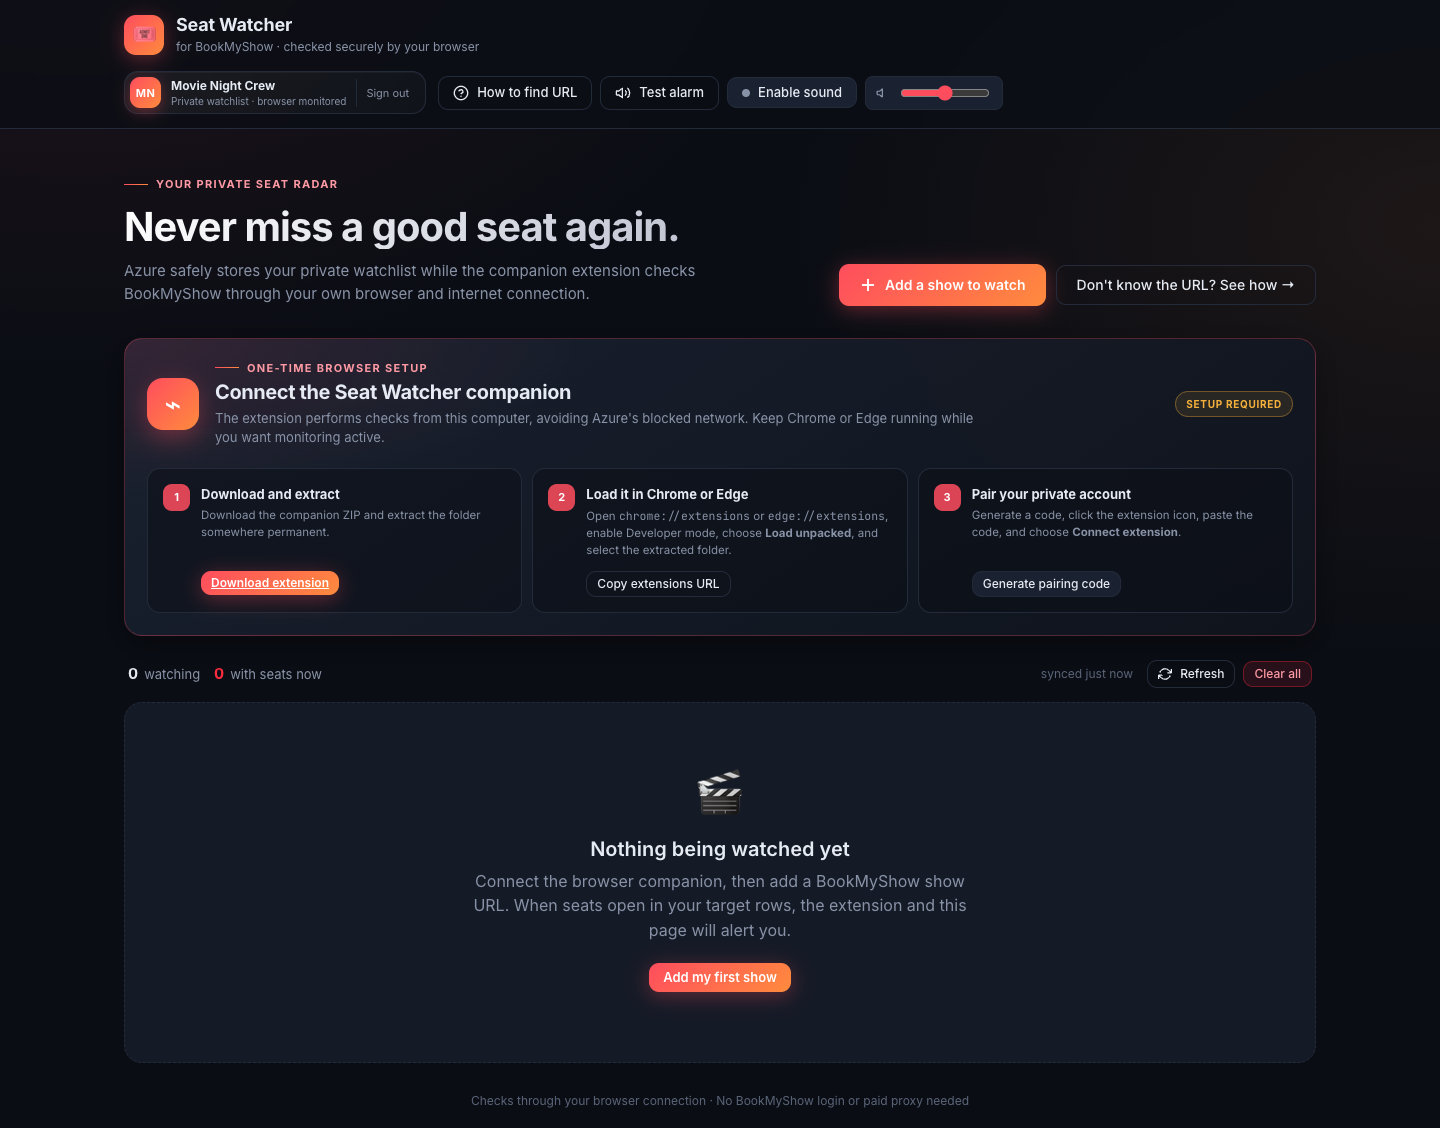
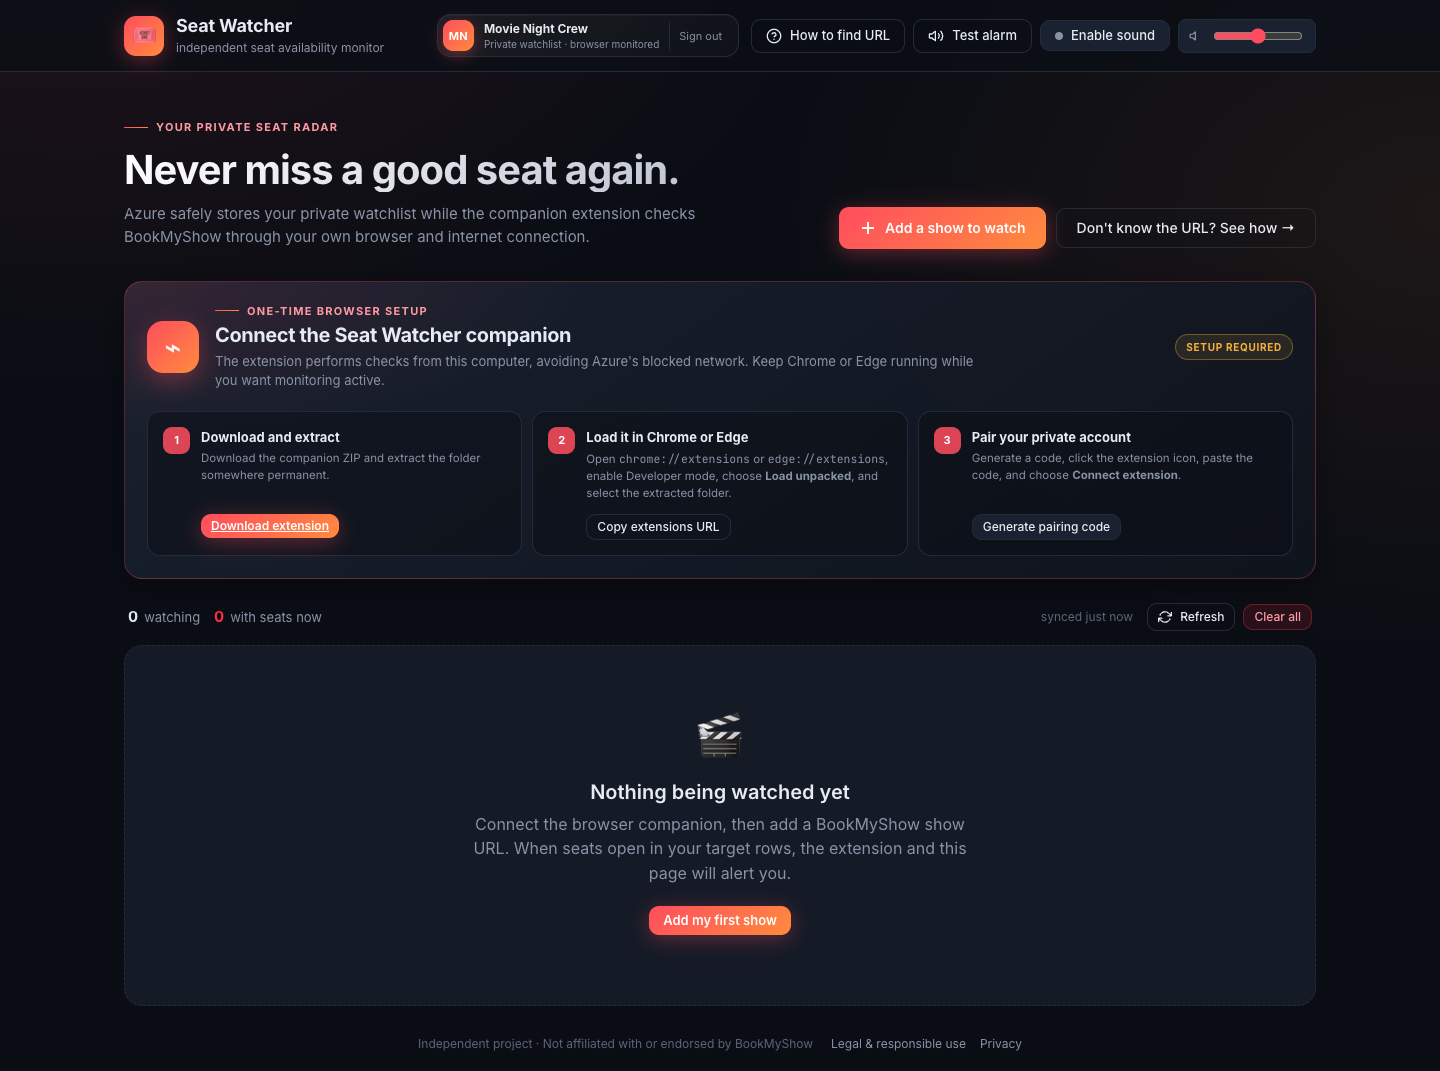
docs: add legal and privacy disclosures

diff --git a/public/index.html b/public/index.html
@@ -4,7 +4,7 @@
 <meta charset="utf-8" />
 <meta name="viewport" content="width=device-width, initial-scale=1" />
 <meta name="theme-color" content="#0a0d14" />
-<title>Seat Watcher — BookMyShow</title>
+<title>Seat Watcher</title>
 <link rel="preconnect" href="https://fonts.googleapis.com" />
 <link rel="preconnect" href="https://fonts.gstatic.com" crossorigin />
 <link href="https://fonts.googleapis.com/css2?family=Inter:wght@400;500;600;700&family=JetBrains+Mono:wght@400;500&display=swap" rel="stylesheet" />
@@ -19,7 +19,7 @@
       <div class="brand-logo">🎟</div>
       <div class="brand-text">
         <h1>Seat Watcher</h1>
-        <span class="brand-sub">for BookMyShow · checked securely by your browser</span>
+        <span class="brand-sub">independent seat availability monitor</span>
       </div>
     </div>
     <nav class="header-actions">
@@ -193,7 +193,11 @@
 </main>
 
 <footer class="app-footer container">
-  <span>Checks through your browser connection · No BookMyShow login or paid proxy needed</span>
+  <span>Independent project · Not affiliated with or endorsed by BookMyShow</span>
+  <nav class="app-footer-links" aria-label="Project policies">
+    <a href="https://github.com/madhus1025/SeatWatcher/blob/main/LEGAL.md" target="_blank" rel="noopener">Legal &amp; responsible use</a>
+    <a href="https://github.com/madhus1025/SeatWatcher/blob/main/PRIVACY.md" target="_blank" rel="noopener">Privacy</a>
+  </nav>
 </footer>
 
 <!-- ─── Card template ──────────────────────────────── -->

diff --git a/public/styles.css b/public/styles.css
@@ -474,7 +474,12 @@ body {
 .app-footer {
   padding: 30px 24px 20px;
   color: var(--text-dim); font-size: 12px; text-align: center;
+  display: flex; align-items: center; justify-content: center;
+  flex-wrap: wrap; gap: 8px 18px;
 }
+.app-footer-links { display: flex; align-items: center; justify-content: center; gap: 14px; }
+.app-footer-links a { color: var(--text-muted); text-decoration: none; }
+.app-footer-links a:hover { color: var(--text); text-decoration: underline; }
 
 /* ─── Modal ────────────────────────────────────────────────── */
 .modal {

diff --git a/PRIVACY.md b/PRIVACY.md
@@ -1,0 +1,101 @@
+# Privacy Notice
+
+_Effective: August 16, 2026_
+
+This notice explains what Seat Watcher processes in local and hosted modes. Seat
+Watcher is an independent project and is not part of BookMyShow. BookMyShow's
+own privacy policy applies separately when you visit its website.
+
+## Data Seat Watcher processes
+
+A watch can contain:
+
+- the BookMyShow seat-layout URL supplied by the user;
+- selected row letters, requested seat count, contiguous-seat preference, and an optional label;
+- movie, theater, date, time, seat numbers, availability, and check status read from the watched page; and
+- timestamps, errors, check duration, and match status.
+
+Seat Watcher does not ask for or store your BookMyShow password or payment-card
+details. Do not enter credentials, payment details, or other sensitive personal
+information into watch labels or URLs.
+
+## Local mode
+
+By default, the server associates watches with the local development user and
+stores them in `watches.json` on the computer running the app. That file remains
+until watches are deleted in the app or the file is deleted by the operator. It
+is excluded from this Git repository.
+
+Local server monitoring sends page requests to BookMyShow through Playwright
+from the computer running the server. BookMyShow and the network provider can
+observe normal request metadata such as the public IP address and browser
+headers.
+
+## Hosted mode
+
+When authentication and Cosmos DB are configured, the app can process:
+
+- the authenticated user identifier and display name supplied by the hosting platform;
+- the watch data listed above, partitioned by user identifier; and
+- browser-companion status, including connection time, heartbeat, version, errors, and check summaries.
+
+Azure and the hosting operator may process ordinary infrastructure metadata,
+including IP addresses, request headers, timestamps, and diagnostic logs, under
+their own policies. Watch data remains until the user deletes it or the operator
+removes it. Signing out alone does not necessarily delete stored watch data.
+
+## Browser companion
+
+The Edge/Chrome companion stores the following in browser local storage:
+
+- the Seat Watcher app URL and pairing token;
+- pairing and last-run timestamps;
+- recent errors and check summaries; and
+- notification state used to avoid duplicate alerts.
+
+The pairing token grants access to the paired Seat Watcher watchlist. Treat it
+as private, do not paste it into an issue or chat, and disconnect the extension
+if it is exposed.
+
+For each watch, the companion can open the supplied BookMyShow URL in an
+inactive tab, set the BookMyShow region cookie, click the seat-selection prompt,
+read the rendered seat map, send the normalized result to the paired Seat
+Watcher server, and close the tab. It does not send the page's full HTML to Seat
+Watcher. Native notifications may display movie, venue, row, and seat details on
+the device lock screen depending on operating-system settings.
+
+The extension requests `alarms`, `cookies`, `notifications`, `scripting`,
+`storage`, and `tabs` permissions, access to BookMyShow pages, and access to the
+paired Seat Watcher origin. Review those permissions before installation.
+
+## Why data is used
+
+The data is used only to maintain the user's watchlist, check the requested seat
+layouts, calculate availability matches, show status, pair the browser
+companion, and deliver alerts. The project code does not sell watch data or use
+it for advertising.
+
+## Other services
+
+- BookMyShow receives requests when a watched page is opened.
+- Azure receives hosted app traffic and stores data when the Azure deployment is used.
+- Google Fonts may receive a browser request when the web interface loads its fonts.
+- GitHub receives traffic when users follow repository, legal, or privacy links.
+
+Each provider has its own terms and privacy practices.
+
+## Your choices
+
+You can delete individual watches or clear the watchlist in the app, disconnect
+the companion to remove its pairing state, remove the extension, clear browser
+storage, or stop the server. For an account-wide hosted-data request, contact
+the operator privately through the
+[madhus1025 GitHub profile](https://github.com/madhus1025). Do not put sensitive
+personal information in a public GitHub issue.
+
+## Security and changes
+
+No system is completely secure. Keep dependencies and the extension current,
+protect the pairing token, and do not expose a local server directly to the
+internet without authentication. This notice may be updated when data handling
+or hosting changes; the effective date above will be revised.

diff --git a/LEGAL.md b/LEGAL.md
@@ -1,0 +1,61 @@
+# Legal and Responsible Use Notice
+
+_Last updated: August 16, 2026_
+
+Seat Watcher is an independent, personal, non-commercial software project. It is
+not affiliated with, authorized by, sponsored by, or endorsed by BookMyShow or
+Bigtree Entertainment Pvt. Ltd.
+
+BookMyShow and related names, logos, interfaces, and marks belong to their
+respective owners. Movie titles, artwork, venue information, and other
+third-party content also remain the property of their respective rights holders.
+No ownership or license to third-party material is claimed or granted by this
+repository.
+
+## Read this before using the software
+
+Publicly available source code is not permission to access or automate a
+third-party service. You are responsible for reviewing and complying with all
+applicable laws and the current terms, policies, and technical restrictions of
+any service you access.
+
+BookMyShow's current [Terms and Conditions](https://in.bookmyshow.com/terms-and-conditions)
+state, among other things, that its website is intended for personal use and
+restrict reverse engineering, copying, reproduction, unwarranted modification,
+obtaining information through means not intentionally provided, and uses that
+could damage, disable, overburden, or impair the service. Those terms may change.
+This project does not override them or provide authorization from BookMyShow.
+
+Do not use Seat Watcher to:
+
+- bypass CAPTCHAs, access controls, rate limits, blocks, or other safeguards;
+- access accounts, payment flows, private data, or pages you are not authorized to access;
+- overload a service or run high-frequency, large-scale, or commercial monitoring;
+- copy, republish, resell, or build a dataset from third-party content;
+- misrepresent affiliation with BookMyShow or any movie, theater, or rights holder; or
+- violate a third party's terms, intellectual-property rights, privacy rights, or local law.
+
+Use conservative polling intervals, stop immediately if a service objects or
+blocks access, and use the software only for shows you personally intend to
+book. The lowest-risk option is to obtain written permission from the service
+operator before distributing or operating automated monitoring software.
+
+## Third-party screenshots
+
+The guide screenshots under `public/help/` depict third-party pages solely to
+explain a user workflow. Their inclusion does not transfer any rights or imply
+endorsement. A rights holder may request review or removal by contacting the
+repository owner through the
+[madhus1025 GitHub profile](https://github.com/madhus1025).
+
+## No legal advice or warranty
+
+This notice is general project information, not legal advice. It cannot promise
+that a use is lawful or prevent a complaint, takedown request, account block,
+cease-and-desist letter, or legal claim. For advice about your circumstances,
+consult a qualified lawyer in the relevant jurisdiction.
+
+The software is provided as-is, without warranties or guarantees. The author is
+not responsible for third-party service changes, blocked access, missed seats,
+booking outcomes, or use of the software in violation of law or third-party
+terms.

diff --git a/README.md b/README.md
@@ -7,6 +7,13 @@ show, the rows you care about, and the number of adjacent seats your group
 needs. It keeps checking the live layout, reconstructs the seat map, and alerts
 you the moment a matching block appears.
 
+> [!CAUTION]
+> Seat Watcher is an independent, personal, non-commercial project. It is not
+> affiliated with or authorized by BookMyShow. Automated access may be restricted
+> by BookMyShow's terms, and public source code is not permission to access its
+> service. Read the [Legal and Responsible Use Notice](LEGAL.md) and
+> [Privacy Notice](PRIVACY.md) before running or distributing this software.
+
 [![Node.js 22+](https://img.shields.io/badge/Node.js-22%2B-339933?logo=nodedotjs&logoColor=white)](https://nodejs.org/)
 [![Microsoft Edge](https://img.shields.io/badge/Microsoft%20Edge-ready-0078D7?logo=microsoftedge&logoColor=white)](https://www.microsoft.com/edge)
 [![Playwright](https://img.shields.io/badge/Playwright-powered-2EAD33?logo=playwright&logoColor=white)](https://playwright.dev/)
@@ -198,6 +205,19 @@ slugs fall back to Hyderabad.
 
 ## Responsible use
 
-Seat Watcher is an independent utility and is not affiliated with or endorsed
-by BookMyShow. Use sensible polling intervals, monitor only shows you intend to
-book, and follow the website's terms and local requirements.
+Seat Watcher is not affiliated with, authorized by, sponsored by, or endorsed
+by BookMyShow or Bigtree Entertainment. BookMyShow's current
+[Terms and Conditions](https://in.bookmyshow.com/terms-and-conditions) describe
+the website as intended for personal use and impose restrictions relevant to
+automated extraction and reuse. You are responsible for obtaining any required
+permission and complying with applicable terms and law.
+
+Do not use this project to bypass CAPTCHAs, access controls, rate limits, or
+blocks; access account or payment data; run commercial or large-scale
+monitoring; republish third-party content; or impair the service. Use
+conservative intervals and stop if the service objects or blocks access.
+
+See [LEGAL.md](LEGAL.md) for the complete project notice and
+[PRIVACY.md](PRIVACY.md) for the local, hosted, and browser-extension data flow.
+These notices provide transparency but do not eliminate legal or contractual
+risk. Written permission from the service operator is the lowest-risk route.
